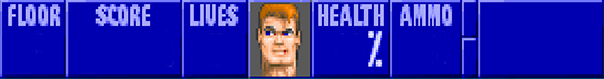
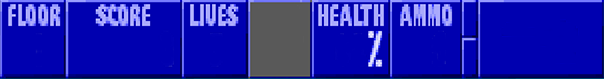
One Up added

Changed region(s): [[0.4172, 0.0506, 0.5066, 0.9873]]

diff --git a/Main.js b/Main.js
@@ -143,9 +143,15 @@ function draw() {
         player.move();
         player.draw();
 
-        const c = `rgba(0,255,0, ${bright})`;
+        if (bright >= 0) {
+            const c = `rgba(0,255,0, ${bright})`;
+            game.screen.background(c);
+        }
 
-        game.screen.background(c);
+        if (frames % 15 === 0) {
+            HUD.face = Math.round(Math.random() * 2) + 1;
+            HUD.draw();
+        }
 
         // game.screen.background("rgba(0,255,0,0)")
         // const index = sprites.findIndex(
@@ -413,6 +419,15 @@ function passable(sprite) {
             player.weapons.push("smg");
             HUD.draw();
             sprites[sprites.indexOf(sprite)].x = 0;
+            return true;
+            break;
+
+        case "orb":
+            player.ammo += 25;
+            player.health = 100;
+            player.lives += 1;
+            sprites[sprites.indexOf(sprite)].x = 0;
+            HUD.draw();
             return true;
             break;
 

diff --git a/index.html b/index.html
@@ -137,6 +137,10 @@
     <img hidden id="smg_HUD"    src="HUD/guns/smg_HUD.png"    height="24" width="48"/>
     <img hidden id="knife_HUD"  src="HUD/guns/knife_HUD.png"  height="24" width="48"/>
 
+    <img hidden id="face_1"  src="HUD/face/face_1.png"  height="75" width="60"/>
+    <img hidden id="face_2"  src="HUD/face/face_2.png"  height="75" width="60"/>
+    <img hidden id="face_3"  src="HUD/face/face_3.png"  height="75" width="60"/>
+
 
 
     <audio id="pistolShot"    src="sound/guns/Pistol.wav" preload="auto"/>

diff --git a/Hud.js b/Hud.js
@@ -2,6 +2,7 @@ class Hud {
     constructor(screen, player) {
         this.screen = screen;
         this.player = player;
+        this.face = 1;
     }
 
     draw() {
@@ -16,6 +17,10 @@ class Hud {
 
         // Lives 
         this.drawNumber(225, 426, player.lives);
+
+        // Face
+        this.screen.canvas.drawImage(document.getElementById("face_" + this.face ), 267, 395)
+
 
         // Health
         this.drawNumber(365, 425, player.health);

diff --git a/Player.js b/Player.js
@@ -20,7 +20,7 @@ class Player {
 
         this.health = 100;
         this.lives  = 3;
-        this.ammo   = 99;
+        this.ammo   = 8;
         this.score  = 0;
 
         this.spriteDir = 1;
@@ -322,6 +322,7 @@ class Player {
 
         if (enemy.deathFrame === 2) {
             document.getElementById("enemyDeathSound_1").cloneNode(true).play(); 
+            player.score += 100;
         }
 
     }
